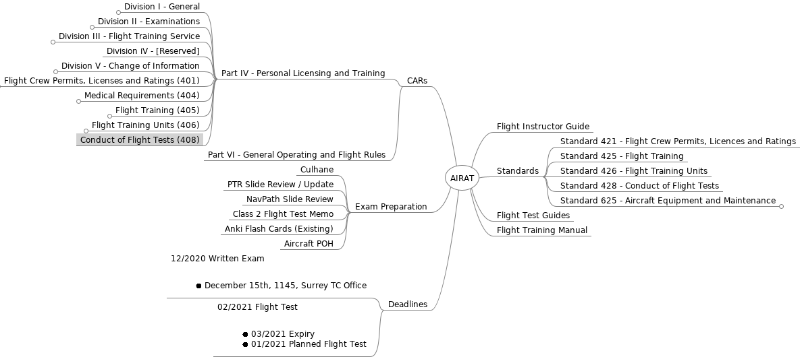
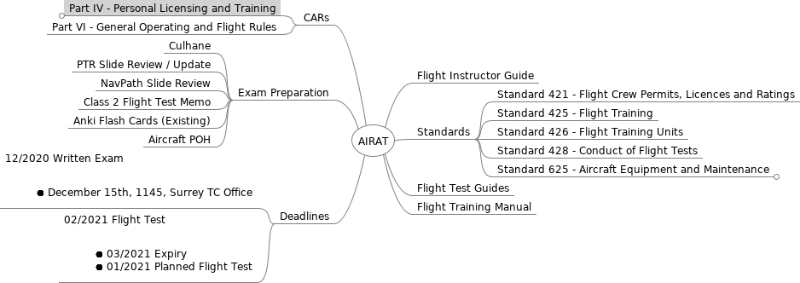
extended AIRAT mind map

diff --git a/FI/Documents/CARS/AIRAT.mm b/FI/Documents/CARS/AIRAT.mm
@@ -24,7 +24,7 @@
 </html></richcontent>
 </node>
 <node CREATED="1601686478539" ID="ID_446566040" MODIFIED="1602709875471" POSITION="left" TEXT="CARs">
-<node CREATED="1601687030791" ID="ID_1799555625" MODIFIED="1602708482005" TEXT="Part IV - Personal Licensing and Training">
+<node CREATED="1601687030791" FOLDED="true" ID="ID_1799555625" MODIFIED="1603476857823" TEXT="Part IV - Personal Licensing and Training">
 <node CREATED="1602707724103" FOLDED="true" ID="ID_1776012256" MODIFIED="1602883189346" TEXT="Division I - General">
 <node CREATED="1602707910811" ID="ID_1886031404" MODIFIED="1602707920723" TEXT="Interpretation (400.01)"/>
 </node>
@@ -124,8 +124,8 @@
 </html></richcontent>
 </node>
 </node>
-<node CREATED="1602355279925" FOLDED="true" ID="ID_1595026383" MODIFIED="1603146074574" TEXT="Flight Crew Permits, Licenses and Ratings (401)">
-<node CREATED="1602708590722" FOLDED="true" ID="ID_1160141317" MODIFIED="1603142559579" TEXT="Division I - General">
+<node CREATED="1602355279925" FOLDED="true" ID="ID_1595026383" MODIFIED="1603473663880" TEXT="Flight Crew Permits, Licenses and Ratings (401)">
+<node CREATED="1602708590722" FOLDED="true" ID="ID_1160141317" MODIFIED="1603473412725" TEXT="Division I - General">
 <node CREATED="1602709384041" ID="ID_751706782" MODIFIED="1602709424319">
 <richcontent TYPE="NODE"><html>
   <head>
@@ -253,7 +253,7 @@
 </html></richcontent>
 </node>
 </node>
-<node CREATED="1602708627848" FOLDED="true" ID="ID_326761546" MODIFIED="1603142564599" TEXT="Division II - Testing">
+<node CREATED="1602708627848" FOLDED="true" ID="ID_326761546" MODIFIED="1603473657545" TEXT="Division II - Testing">
 <node CREATED="1602718619099" ID="ID_1553268553" MODIFIED="1602718625162" TEXT="Examination Prerequisites (401.13)"/>
 <node CREATED="1602718665641" ID="ID_1650594142" MODIFIED="1602718673187" TEXT="Flight Test Prerequisites (401.14)"/>
 <node CREATED="1602718825133" ID="ID_1519249816" MODIFIED="1602718934498">
@@ -654,7 +654,7 @@
 </html></richcontent>
 </node>
 </node>
-<node CREATED="1602709080421" FOLDED="true" ID="ID_1527399858" MODIFIED="1603145055103" TEXT="Division XVIII - Flight Instructor Rating - Aeroplane">
+<node CREATED="1602709080421" FOLDED="true" ID="ID_1527399858" MODIFIED="1603473644626" TEXT="Division XVIII - Flight Instructor Rating - Aeroplane">
 <node CREATED="1602884425409" ID="ID_289891587" MODIFIED="1603142948014">
 <richcontent TYPE="NODE"><html>
   <head>
@@ -2154,8 +2154,7 @@
       </li>
     </ul>
   </body>
-</html>
-</richcontent>
+</html></richcontent>
 </node>
 <node CREATED="1603315225565" ID="ID_284514748" MODIFIED="1603399901509">
 <richcontent TYPE="NODE"><html>
@@ -2184,8 +2183,7 @@
       </li>
     </ul>
   </body>
-</html>
-</richcontent>
+</html></richcontent>
 </node>
 <node CREATED="1603399931037" ID="ID_1748122837" MODIFIED="1603400063454">
 <richcontent TYPE="NODE"><html>
@@ -2211,8 +2209,7 @@
       </li>
     </ul>
   </body>
-</html>
-</richcontent>
+</html></richcontent>
 </node>
 <node CREATED="1603400098151" ID="ID_203673189" MODIFIED="1603400169999">
 <richcontent TYPE="NODE"><html>
@@ -2235,8 +2232,7 @@
       </li>
     </ul>
   </body>
-</html>
-</richcontent>
+</html></richcontent>
 </node>
 </node>
 <node CREATED="1602702552628" FOLDED="true" ID="ID_578560252" MODIFIED="1603402052931" TEXT="Division VII - Training">
@@ -2315,8 +2311,7 @@
       </li>
     </ul>
   </body>
-</html>
-</richcontent>
+</html></richcontent>
 </node>
 </node>
 <node CREATED="1602702575444" FOLDED="true" ID="ID_263017236" MODIFIED="1603402317016" TEXT="Division VIII - Integrated Course">
@@ -2344,8 +2339,7 @@
       </li>
     </ul>
   </body>
-</html>
-</richcontent>
+</html></richcontent>
 </node>
 <node CREATED="1603402188252" ID="ID_837011853" MODIFIED="1603402246672">
 <richcontent TYPE="NODE"><html>
@@ -2365,8 +2359,7 @@
       </li>
     </ul>
   </body>
-</html>
-</richcontent>
+</html></richcontent>
 </node>
 <node CREATED="1603402267217" ID="ID_1391205957" MODIFIED="1603402313241">
 <richcontent TYPE="NODE"><html>
@@ -2386,12 +2379,173 @@
       </li>
     </ul>
   </body>
+</html></richcontent>
+</node>
+</node>
+</node>
+<node CREATED="1603402364306" FOLDED="true" ID="ID_1357434038" MODIFIED="1603476825021" TEXT="Conduct of Flight Tests (408)">
+<node CREATED="1603473345356" ID="ID_958577068" MODIFIED="1603473421420">
+<richcontent TYPE="NODE"><html>
+  <head>
+    
+  </head>
+  <body>
+    <p>
+      Interpretation (408.01)
+    </p>
+    <p>
+      
+    </p>
+    <ul>
+      <li>
+        applicable <b>standard</b>&#160;<b>428</b>
+      </li>
+    </ul>
+  </body>
 </html>
 </richcontent>
 </node>
+<node CREATED="1603473464572" ID="ID_604150138" MODIFIED="1603473470326" TEXT="Application (408.02)"/>
+<node CREATED="1603473490295" ID="ID_421942680" MODIFIED="1603473594828">
+<richcontent TYPE="NODE"><html>
+  <head>
+    
+  </head>
+  <body>
+    <p>
+      Record of Flight Test (408.11)
+    </p>
+    <p>
+      
+    </p>
+    <ul>
+      <li>
+        TC maintains flight test records
+
+        <ul>
+          <li>
+            assessment of each flight test item
+          </li>
+          <li>
+            overall results
+          </li>
+          <li>
+            passed or failed
+          </li>
+        </ul>
+      </li>
+    </ul>
+  </body>
+</html>
+</richcontent>
 </node>
+<node CREATED="1603473682960" ID="ID_1785815844" MODIFIED="1603473688278" TEXT="Prerequisite for Flight Test (408.12)"/>
+<node CREATED="1603473969494" ID="ID_1967632672" MODIFIED="1603473976055" TEXT="Aircraft and Equipment Required for a Flight Test (408.13)"/>
+<node CREATED="1603474011967" ID="ID_135733102" MODIFIED="1603474968445">
+<richcontent TYPE="NODE"><html>
+  <head>
+    
+  </head>
+  <body>
+    <p>
+      Flight Test (408.14)
+    </p>
+    <p>
+      
+    </p>
+    <ul>
+      <li>
+        PCR(UL), RPP(A), PPL(A), PPL(H): <b>50</b>%
+      </li>
+      <li>
+        CPL(A) 70%, CPL(H) 70%, MER(A): <b>70</b>%
+      </li>
+      <li>
+        IR <b>60</b>%
+      </li>
+    </ul>
+  </body>
+</html>
+</richcontent>
 </node>
-<node CREATED="1603402364306" ID="ID_1357434038" MODIFIED="1603402374032" TEXT="Conduct of Flight Tests (408)"/>
+<node CREATED="1603474341032" ID="ID_157718675" MODIFIED="1603474644832">
+<richcontent TYPE="NODE"><html>
+  <head>
+    
+  </head>
+  <body>
+    <p>
+      Conduct of a Flight Test (408.15,16)
+    </p>
+  </body>
+</html>
+</richcontent>
+</node>
+<node CREATED="1603474691745" ID="ID_51327025" MODIFIED="1603474938143">
+<richcontent TYPE="NODE"><html>
+  <head>
+    
+  </head>
+  <body>
+    <p>
+      Incomplete Flight Test (408.17)
+    </p>
+    <p>
+      
+    </p>
+    <ul>
+      <li>
+        continuation only covers incomplete items
+      </li>
+      <li>
+        continuation within <b>60</b>&#160;days for PCR(UL)
+      </li>
+      <li>
+        continuation within <b>30</b>&#160;days, otherwise
+      </li>
+    </ul>
+  </body>
+</html>
+</richcontent>
+</node>
+<node CREATED="1603475005496" ID="ID_1548631920" MODIFIED="1603475689880">
+<richcontent TYPE="NODE"><html>
+  <head>
+    
+  </head>
+  <body>
+    <p>
+      Failure and Re-test - Schedules 1 to 8 to Flight Testing Standards (408.18)
+    </p>
+    <p>
+      
+    </p>
+    <ul>
+      <li>
+        fail (<b>1</b>) if tolerances are exceeded by <b>more than double</b>
+      </li>
+      <li>
+        <i>example: altitude +/-100, deviation +210</i>
+      </li>
+      <li>
+        partial <b>initial</b>&#160;flight test possible with maximum <b>2</b>&#160;failed air items
+      </li>
+      <li>
+        partial flight test within <b>60</b>&#160;days for PCR(UL)
+      </li>
+      <li>
+        partial flight test within <b>30</b>&#160;days, otherwise
+      </li>
+      <li>
+        partial IR <b>renewal</b>&#160;flight test possible with maximum <b>1</b>&#160;failed air item
+      </li>
+    </ul>
+  </body>
+</html>
+</richcontent>
+</node>
+<node CREATED="1603475738840" ID="ID_264085848" MODIFIED="1603475754583" TEXT="Failure of a Flight Test - Schedules 9 to 18 to Flight Testing Standards (408.19)"/>
+</node>
 </node>
 <node CREATED="1601687037693" ID="ID_35577576" MODIFIED="1603149994501">
 <richcontent TYPE="NODE"><html>
